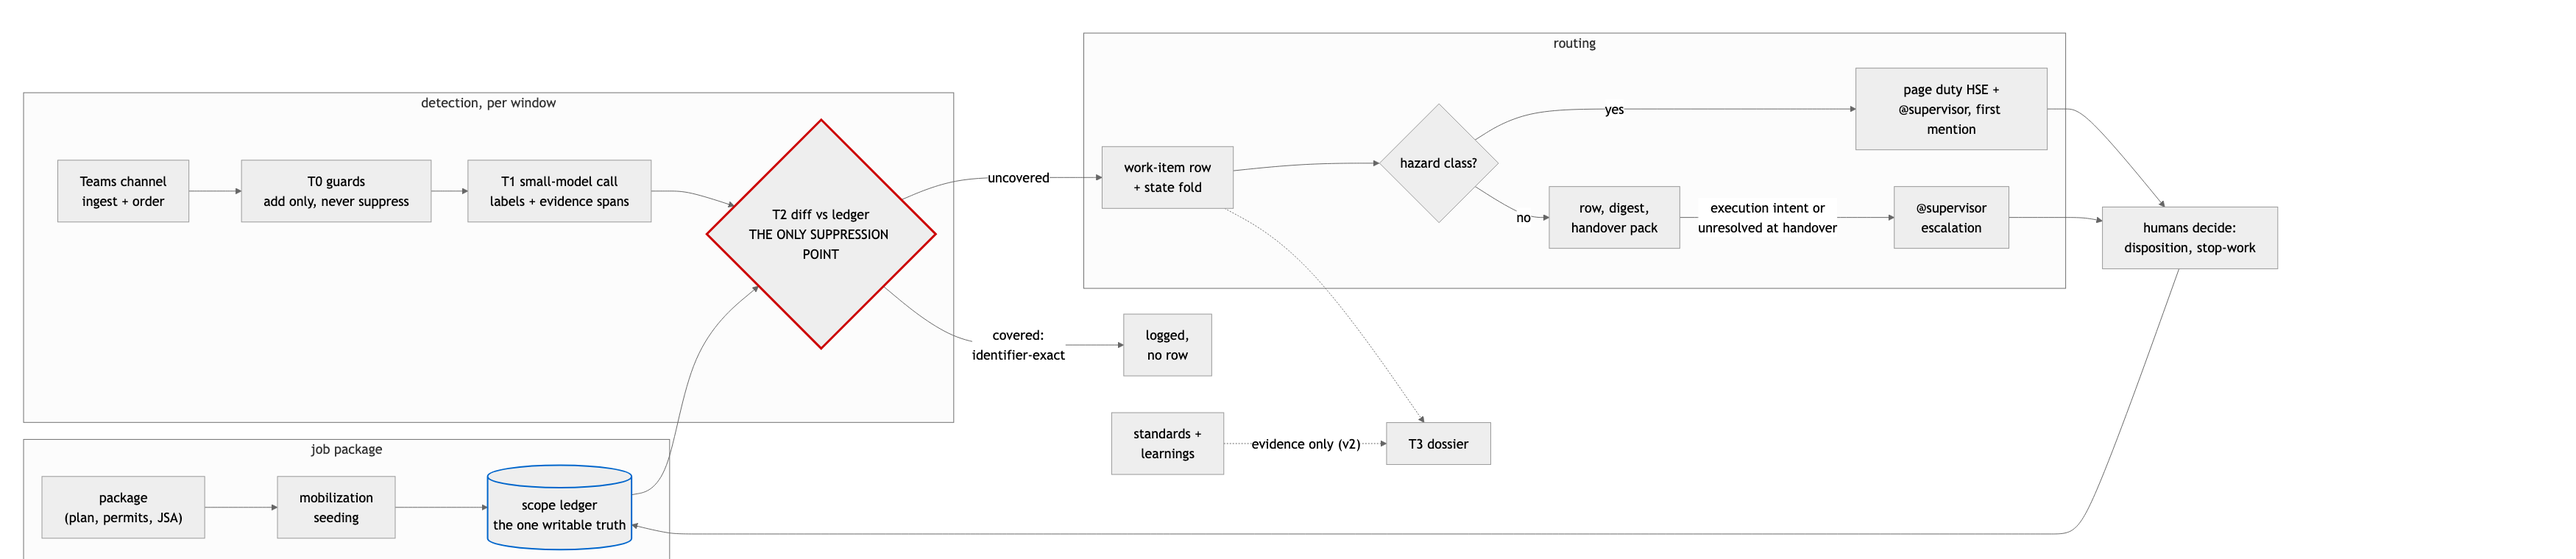
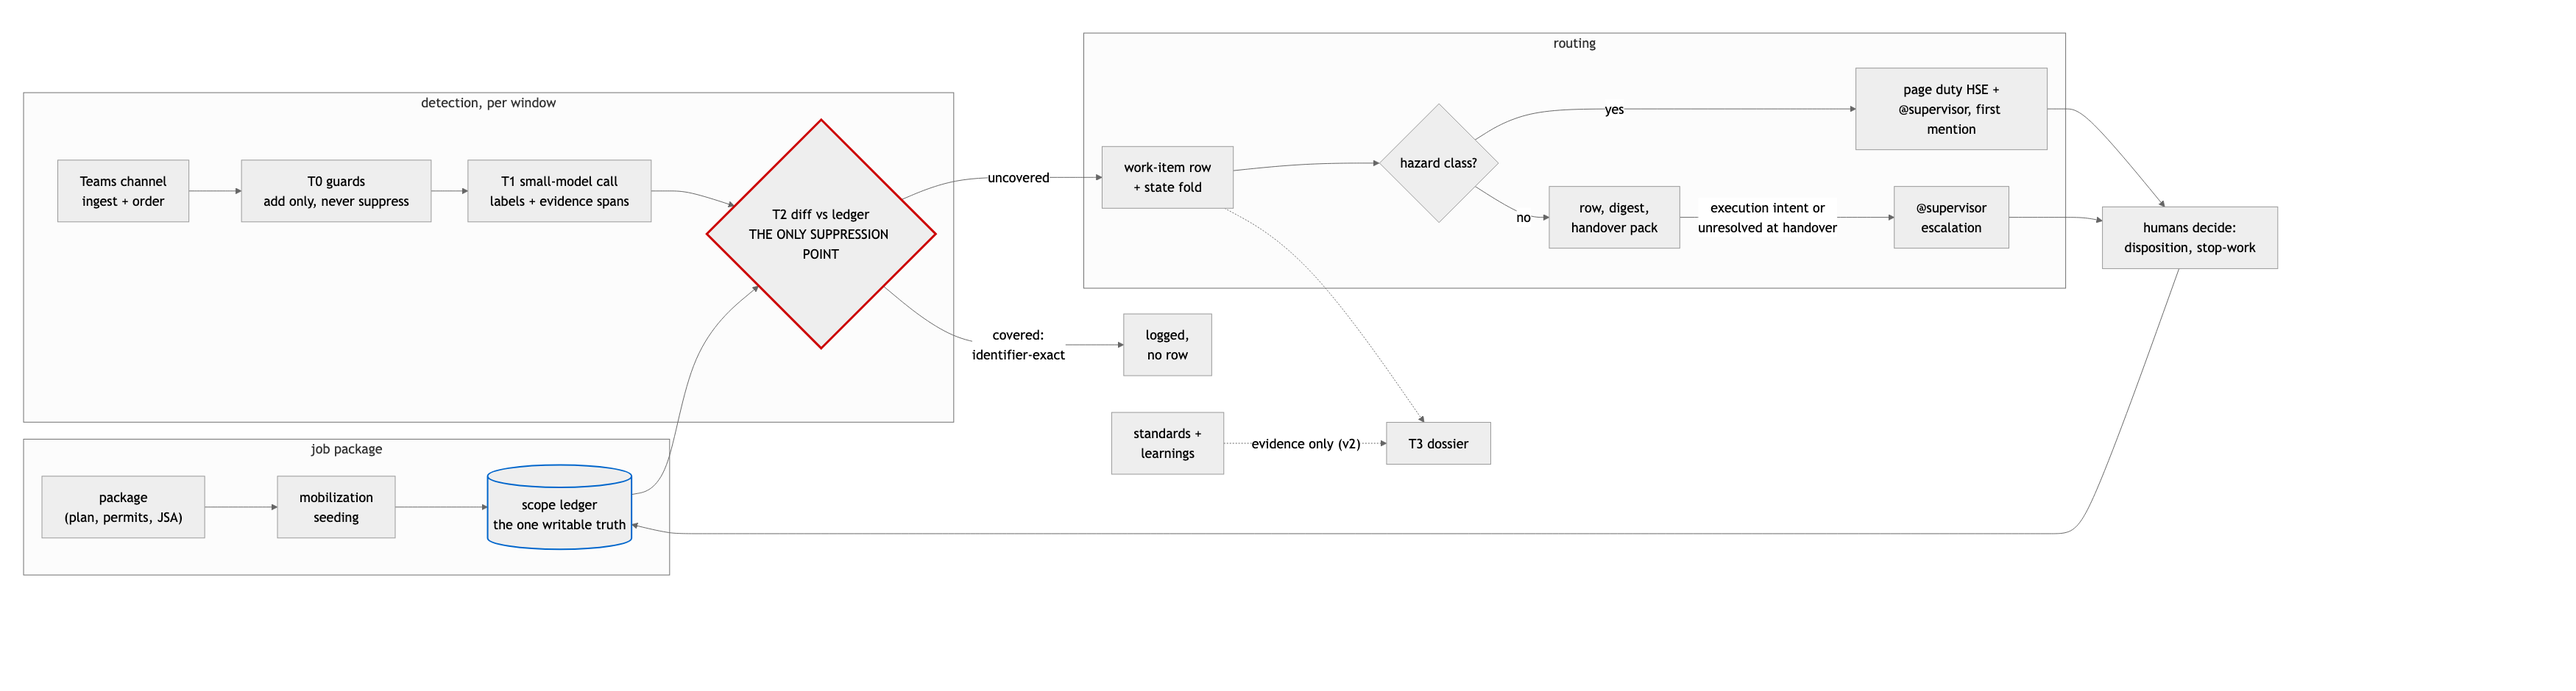
Final gate fixes: full-height architecture export, build-log references reworded, editor hook config untracked, layout table row

diff --git a/docs/DECISIONS.md b/docs/DECISIONS.md
@@ -3,7 +3,7 @@
 Each entry: the question, the decision, why, what was rejected. Contested
 choices are argued by advocate subagents with a rebuttal round and an
 adversarial judge; decided by the main session with the full record in view.
-Detail and timestamps: `PROGRESS.md`.
+Detail and timestamps live in the local build log.
 
 ## D001 (2026-08-31) Detection core: tiered scope-conformance against a live per-job ledger
 
@@ -168,9 +168,9 @@ supervisor-shift; paraphrase-invariant recall with a zero-suppression hard
 gate; the soak with a killed subscription and an edited grounded span), all
 under held-out, supervisor-authored plants and mute-rate instrumentation
 from shadow day one. Reuse lineage, stated for the design doc: guards-first
-tiering and the human loop are the email-triage pipeline's skeleton; ledger
-grounding, deterministic-only suppression and planted-trap evals are the
-RFP drafter's discipline; the rollout ladder is standing doctrine. The
+tiering with a human loop, ledger grounding, deterministic-only suppression
+and planted-trap evals are patterns proven in earlier production work; the
+rollout ladder is standing doctrine. The
 genuinely novel components — the work-item fold and the
 disposition-before-execution loop — are where Part 2 should aim.
 
@@ -178,8 +178,8 @@ disposition-before-execution loop — are where Part 2 should aim.
 
 After Nikhil challenged whether the debate had used the web, ML best
 practice and our accumulated project experience, three cited research
-rounds ran (grounding/retrieval; streaming-detection ML incl. our
-production repos; HSE domain prior art). Amendments below; sources in the
+rounds ran (grounding/retrieval; streaming-detection ML incl. earlier
+production code; HSE domain prior art). Amendments below; sources in the
 session record. Where rounds disagreed, the main session ruled.
 
 **D001 amendments.**
@@ -195,7 +195,7 @@ session record. Where rounds disagreed, the main session ruled.
 - [adopt] The T1 model call stays (spans are the product); a fine-tuned
   encoder classifier is a later cost optimisation trained from shadow
   labels — an addition, never a replacement.
-- [adopt] From a production email-triage pipeline: "use the model to extract
+- [adopt] A production-proven rule: "use the model to extract
   fields, use code to score them" — T2's diff score is deterministic
   weighted signals with per-signal `{points, max, why}`, and **gaps beat
   confidence**: a missing permit or control routes to escalation

diff --git a/CLAUDE.md b/CLAUDE.md
@@ -5,9 +5,9 @@ Deviations require Nikhil's explicit sign-off, recorded under Amendments.
 It is append-only and will grow.
 
 Read, in this order, at the start of every session and after every context
-compression: `ENDGOAL.md` (what we are building and for whom), `PROGRESS.md`
-(where we are in the loop), `docs/DECISIONS.md` (settled architecture), the
-test contract if one exists, then this file.
+compression: `ENDGOAL.md` (what we are building and for whom), the local
+build log (where we are in the loop), `docs/DECISIONS.md` (settled
+architecture), the test contract if one exists, then this file.
 
 ## What this repo is
 
@@ -115,7 +115,7 @@ Decisions live in **code and the design record**, never only in the model.
 
 ## The working loop (mandatory for every non-trivial task)
 
-Stages, in order, tracked in `PROGRESS.md`:
+Stages, in order, tracked in the local build log:
 
 1. **PLAN** — restate the endgoal, list every moving part touched, do the
    reuse check, name the requirement ids the task serves.
@@ -138,7 +138,7 @@ artifact, and the adversarial stages attack the design with the endgoal and
 the operational reality (noise, scale, people) in view.
 
 Trivial mechanical edits may skip the ceremony — say so explicitly in
-`PROGRESS.md` when skipping.
+the build log when skipping.
 
 ## Amendments (append-only, dated)
 
@@ -147,5 +147,3 @@ Trivial mechanical edits may skip the ceremony — say so explicitly in
   design-first exercise: rule 11
   names the harness's module-to-test map as an acceptable counterpart, and
   the loop section states how design-only tasks map onto the stages.
-- **2026-09-02** — Scrub only, no rule change: the dates of unrelated
-  earlier builds were removed from the entry above before publication.

diff --git a/README.md b/README.md
@@ -164,3 +164,4 @@ away. The judgment calls, and the mistakes, are mine.
 | `fixtures/replay/` | The recorded live run, 43 fixtures keyed on model + prompt + attempt |
 | `tests/` | 81 tests; TDD throughout |
 | `docs/` | The verbatim assignment brief and the decision record |
+| `ENDGOAL.md`, `CLAUDE.md`, `scripts/`, `.githooks/` | Working rules and the commit gate (lint, tests, requirement coverage) |
